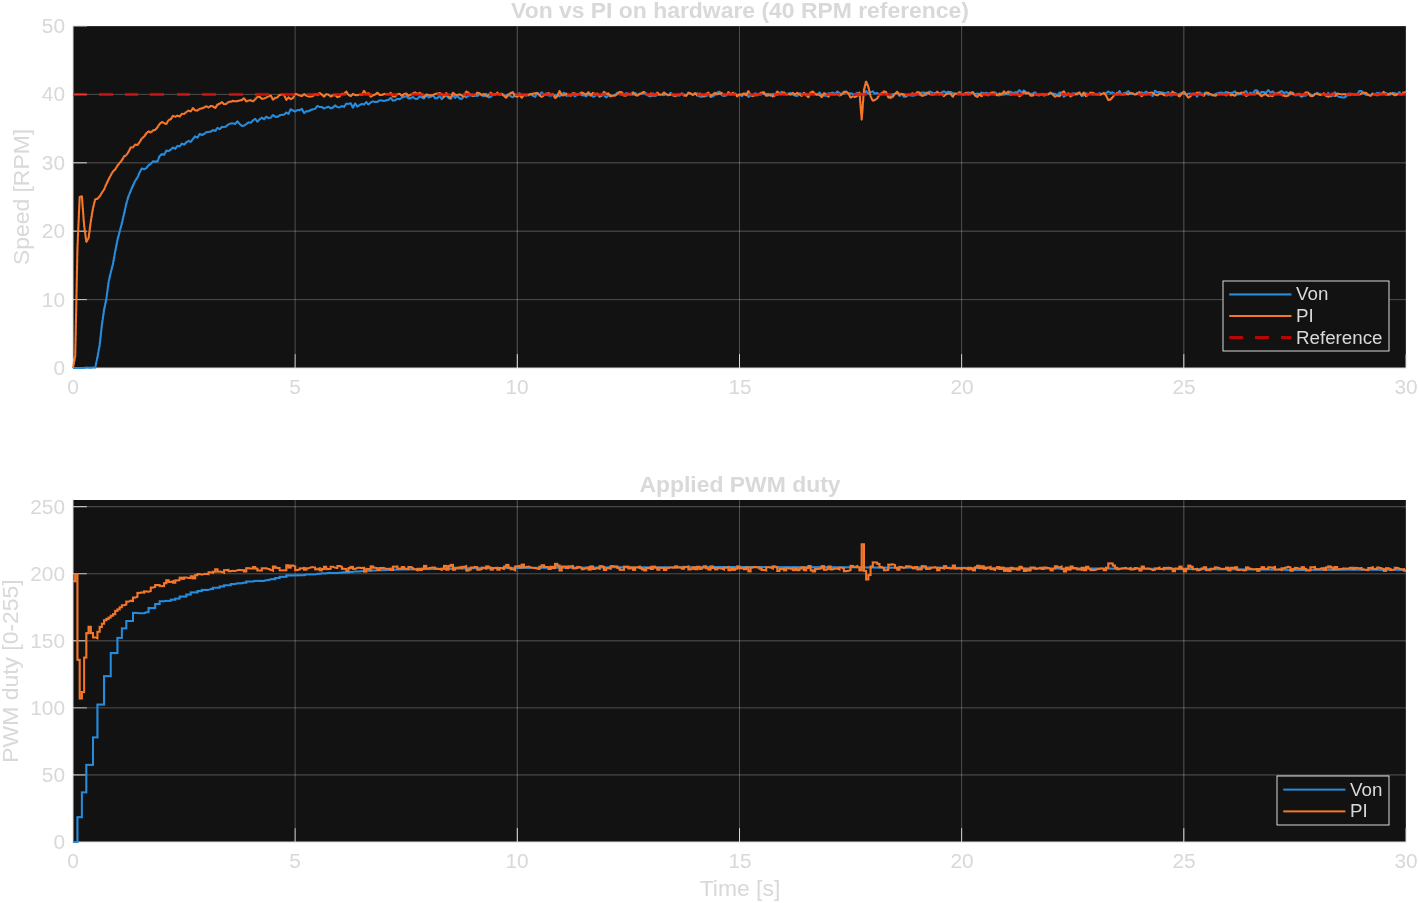
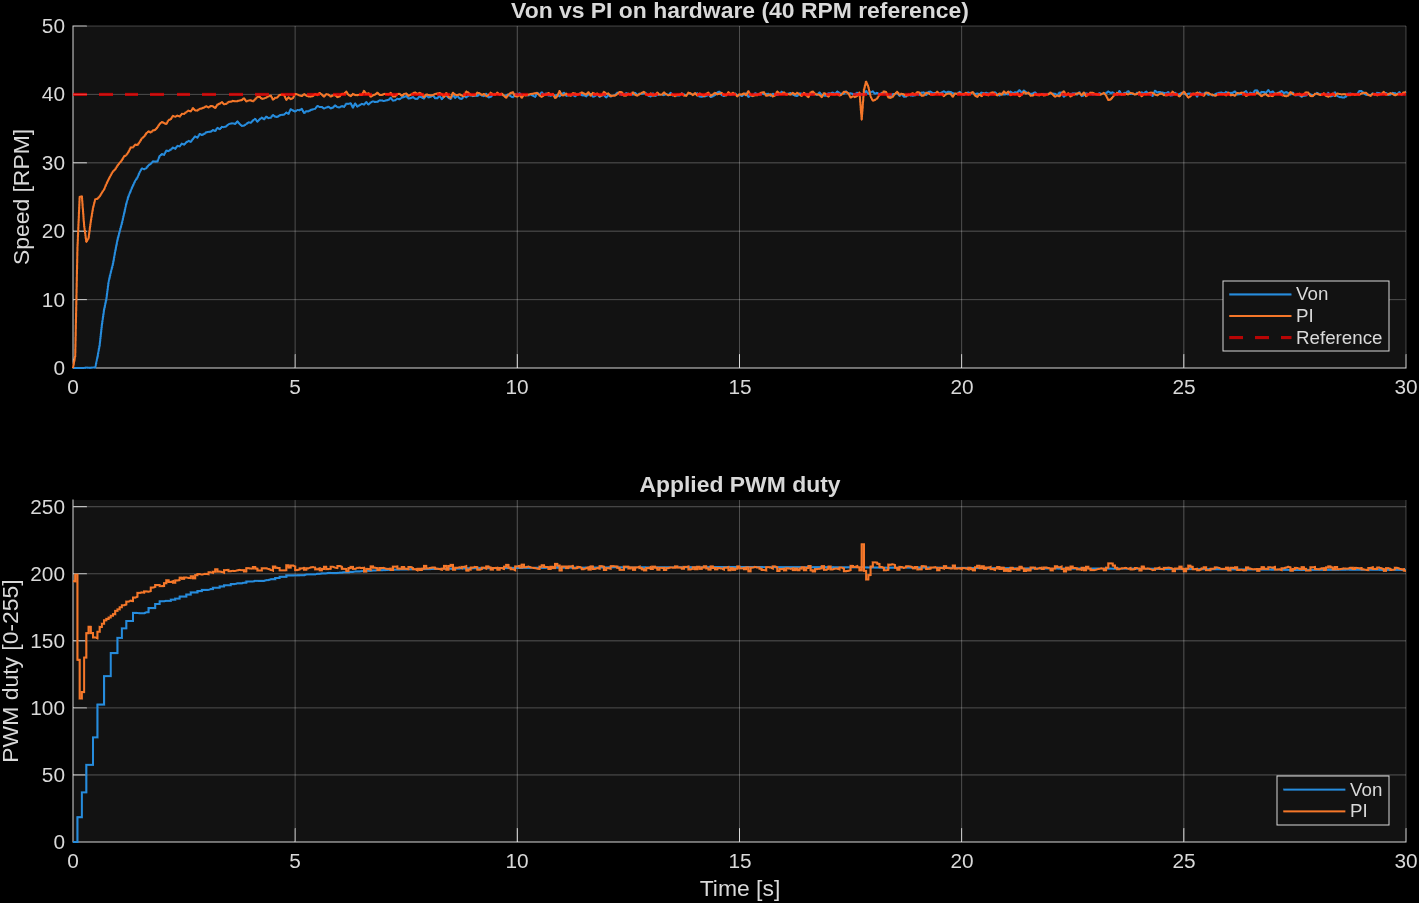
Show hardware results in root README; force dark theme on exported figures

Changed region(s): [[0.0, 0.0, 1.0, 1.0]]

diff --git a/README.md b/README.md
@@ -103,6 +103,19 @@ CPU — all 9 antecedents in a single forward pass.
   standalone Arduino firmware driven over serial, or the Simulink
   Connected IO model in [hardware/simulink/](hardware/simulink/README.md).
 
+## Example hardware run
+
+Measured on the LGM12-N20, 40 RPM reference, 30 s Connected IO runs.
+PI reaches setpoint faster; Von climbs more slowly but holds it with
+less duty jitter.
+
+![Von vs PI on hardware](hardware/simulink/hw_compare.png)
+
+Von membership grades during the Von run — `on_target` dominates once
+the speed parks at setpoint:
+
+![Von membership grades](hardware/simulink/hw_grades.png)
+
 ## Technical notes
 
 **Simulated step response.** `simulation/von_vs_pid.py` uses the identified
